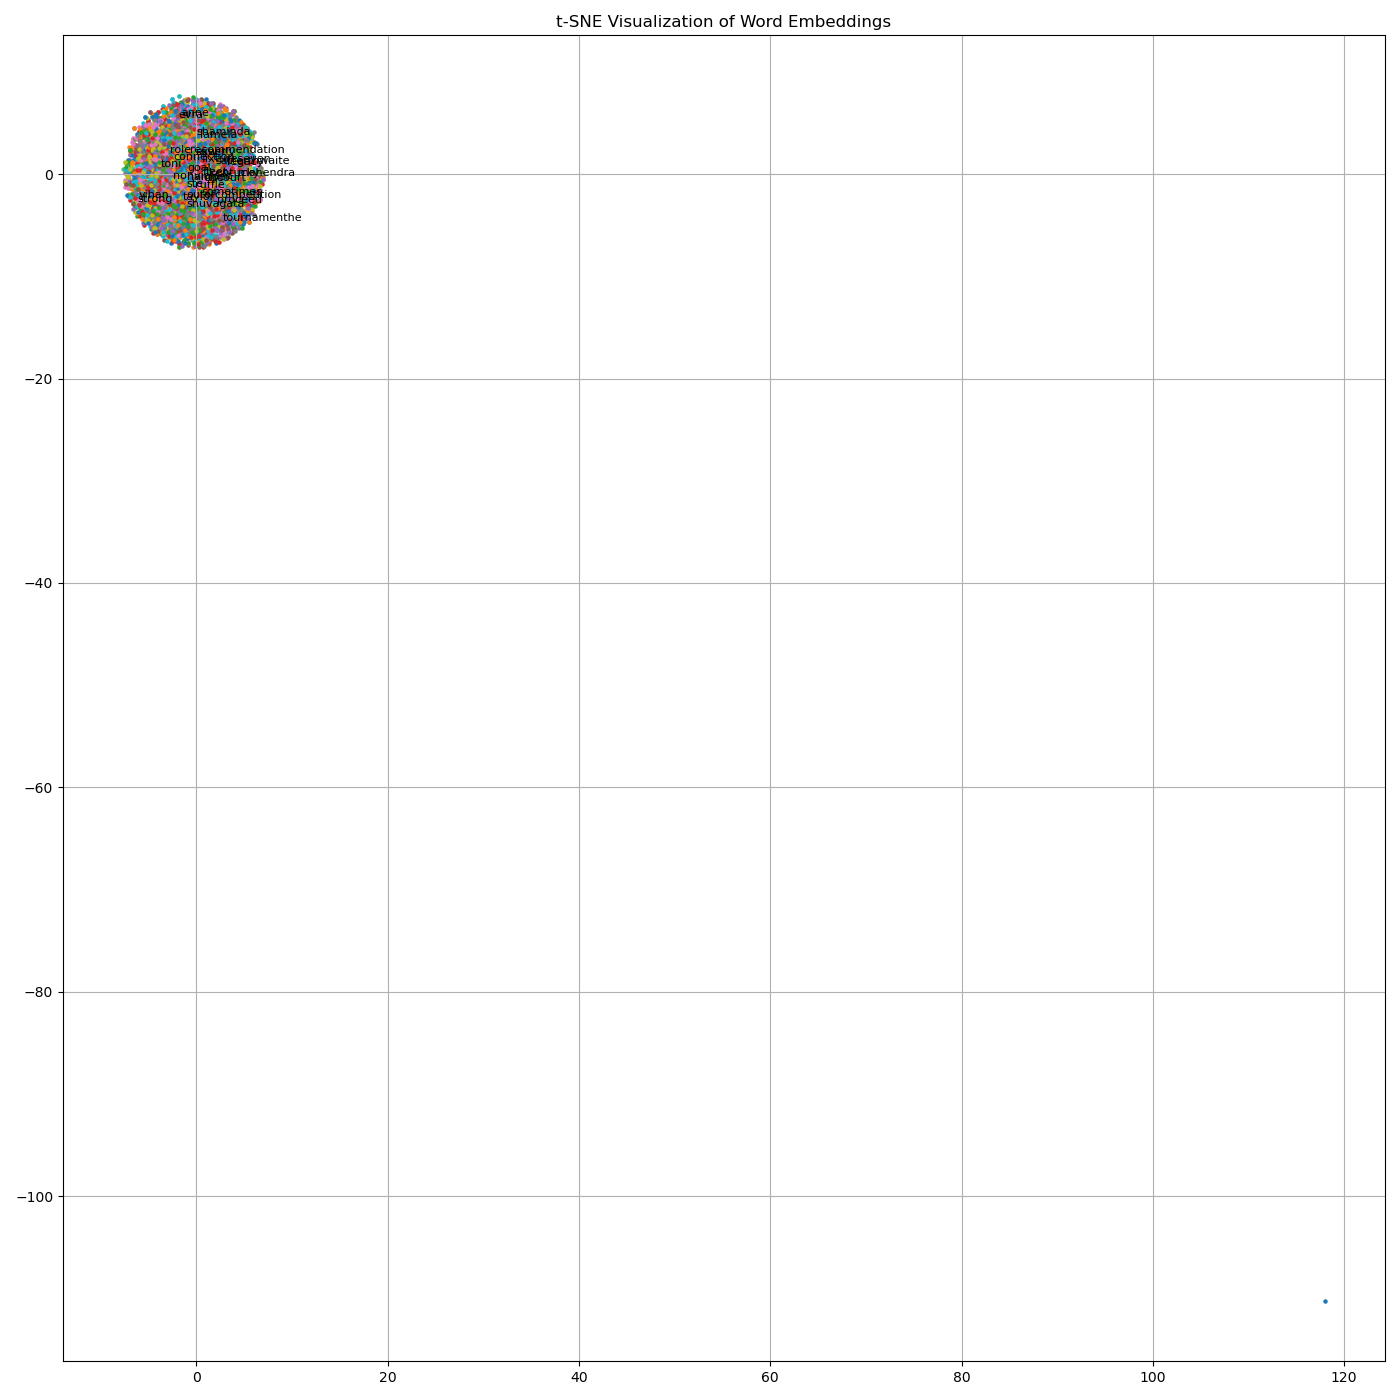
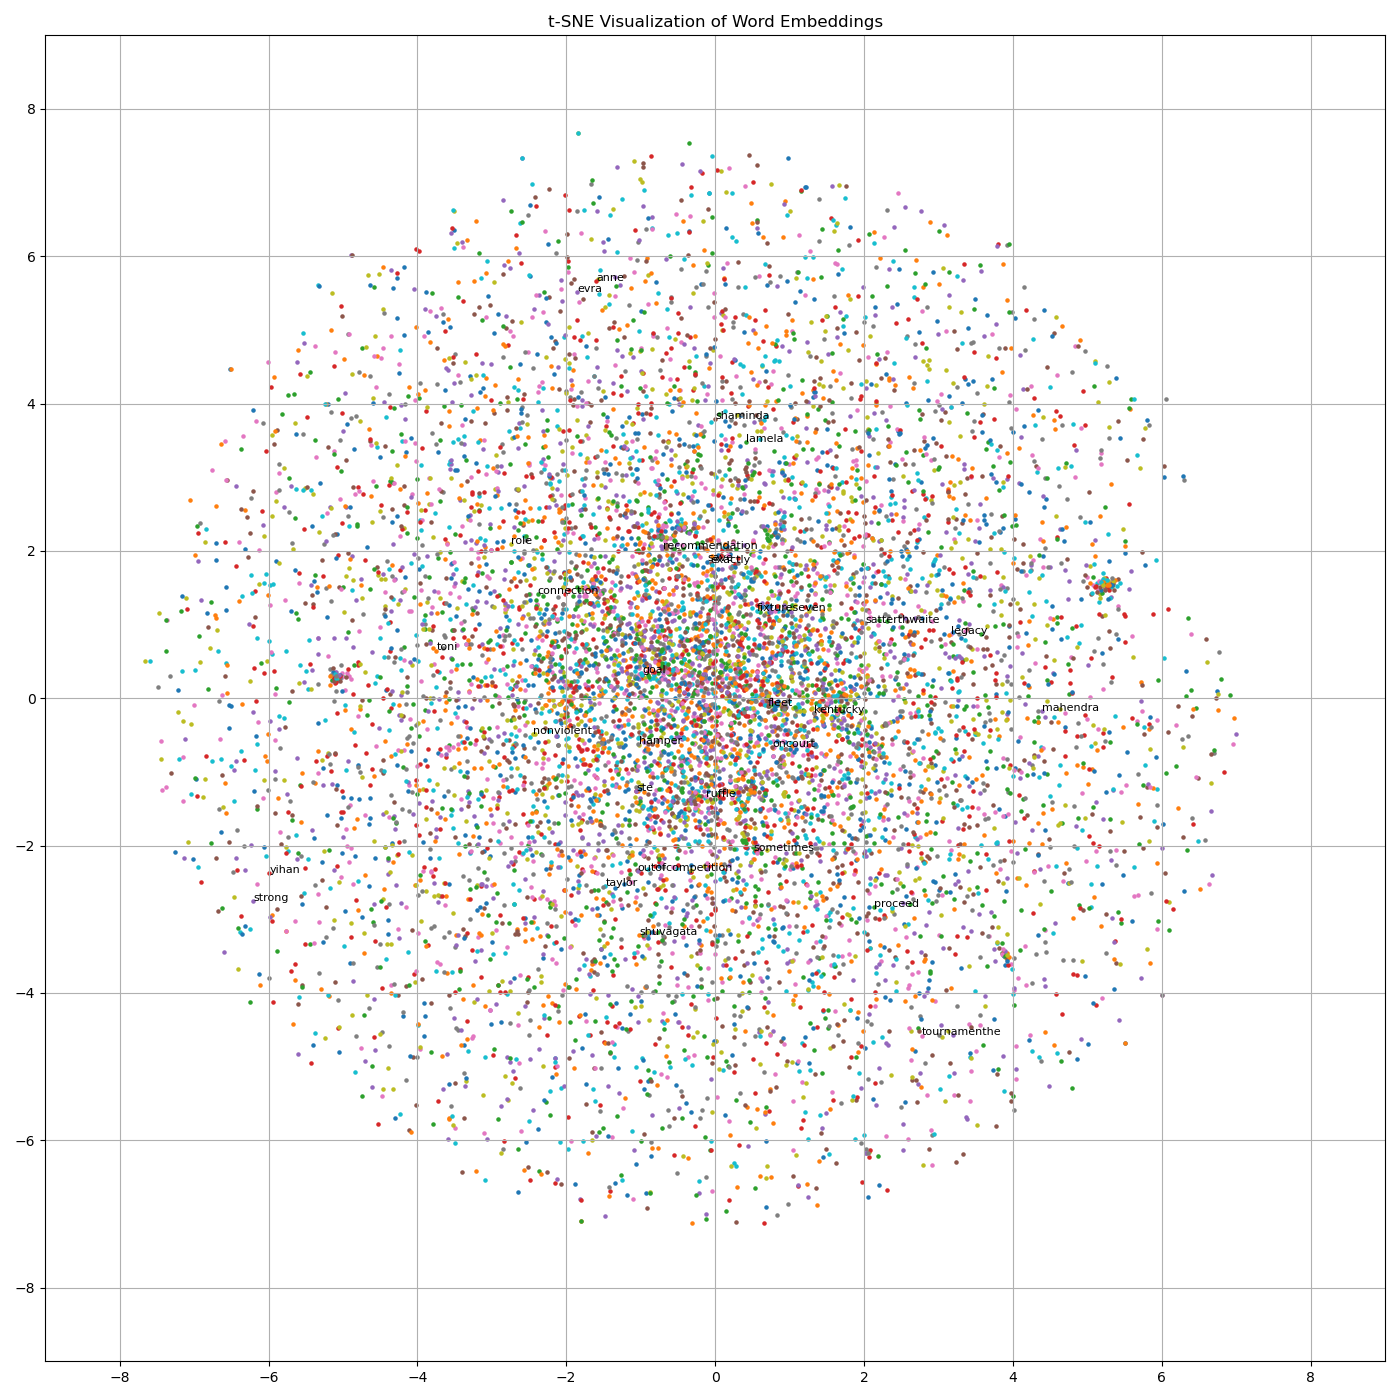
update

diff --git a/4_tSNE_visualisation_and_analysis.py b/4_tSNE_visualisation_and_analysis.py
@@ -28,10 +28,10 @@ device = torch.device("cpu")
 
 # set params
 model_name = "cbow" # "skipgram"
-batch_size = 256
+batch_size = 64
 lr = "0.01"
 epochs = "50"
-window = "2"
+window = "5"
 filepath = f"models/sports/{model_name}/{model_name}_model_{batch_size}b_{lr}l_{epochs}e_{window}w_files/"
 filename = f"{model_name}_model_{batch_size}b_{lr}l_{epochs}e_{window}w.pth"
 
@@ -93,8 +93,8 @@ for i in label_indices:
     word = idx_to_word.get(i, UNK_TOKEN)
     plt.text(x + 0.002, y + 0.002, word, fontsize=8)
 
-# plt.xlim(-8, 8)
-# plt.ylim(-8, 8)
+# plt.xlim(-9, 9)
+# plt.ylim(-9, 9)
 
 plt.title("t-SNE Visualization of Word Embeddings")
 plt.grid(True)
